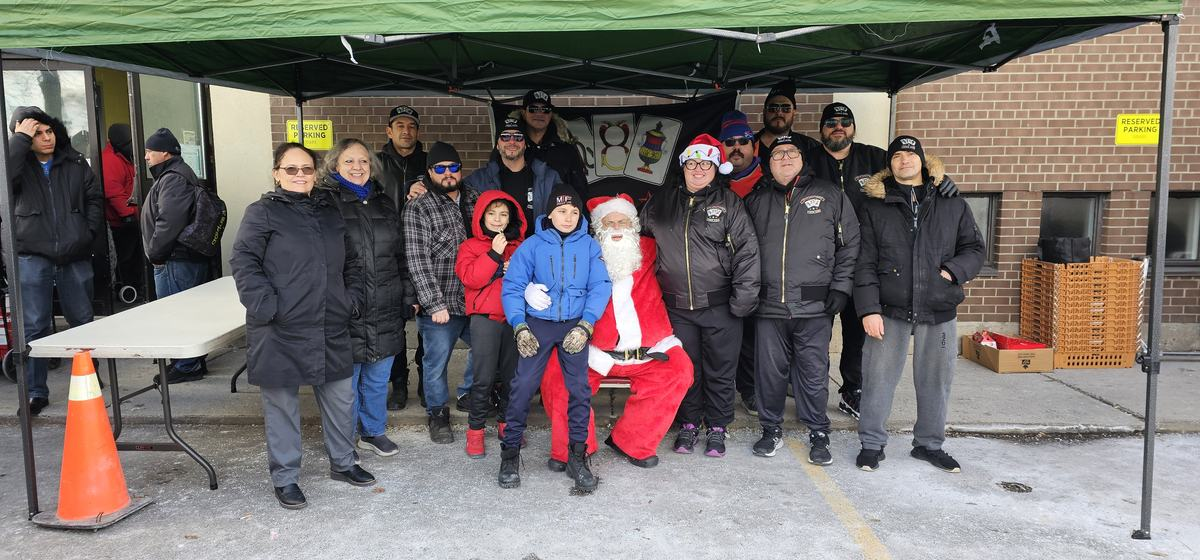
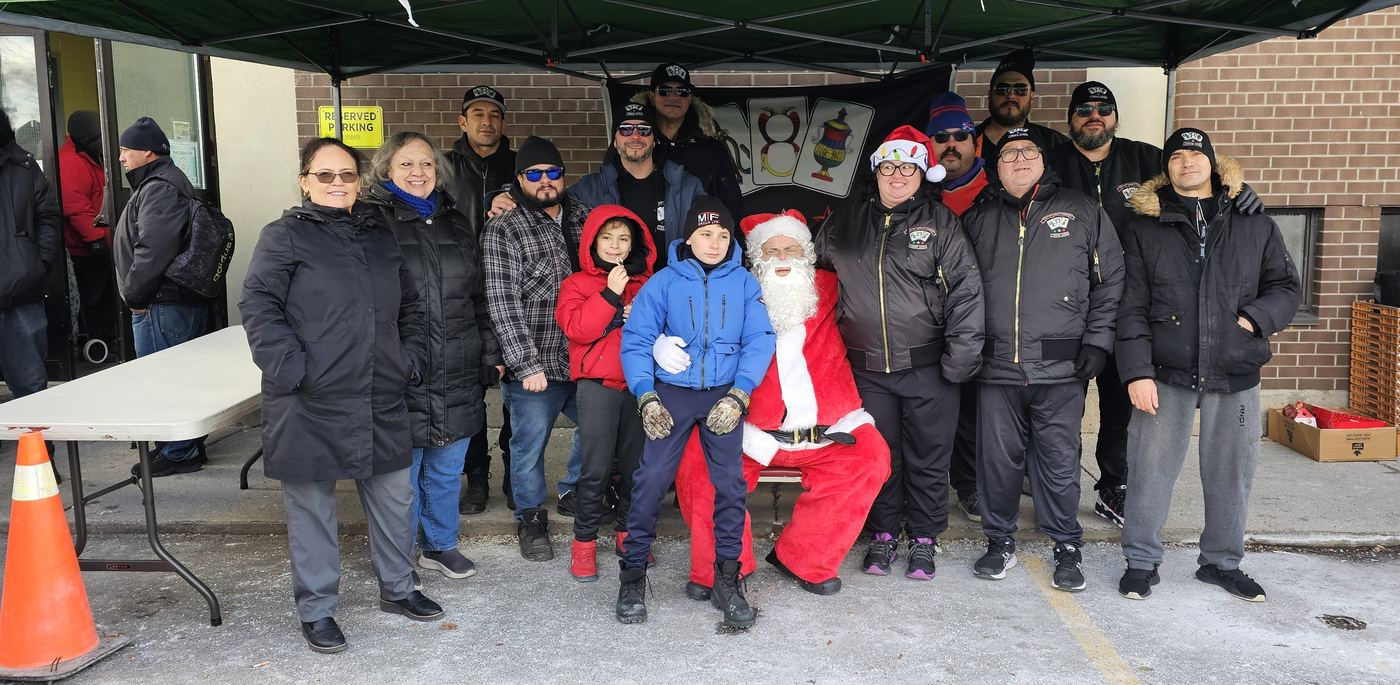
Shipping by weight, food drive photos fixed, picnic sponsor buttons, copy fixes

diff --git a/index.html b/index.html
@@ -27,7 +27,7 @@
   .wrap{ max-width:1240px; margin:0 auto; padding-inline:24px; }
   .display{ font-family:var(--display); font-weight:400; letter-spacing:.02em; line-height:.95; text-wrap:balance; }
   .eyebrow{ display:inline-flex; align-items:center; gap:10px; font-size:12px; font-weight:600; letter-spacing:.22em; text-transform:uppercase; color:var(--gold); }
-  .eyebrow::before{ content:""; width:28px; height:1px; background:var(--gold); }
+  .eyebrow::before{ display:none; }
   .muted{ color:var(--muted); }
   .tricolor{ display:flex; height:3px; } .tricolor i{ flex:1; } .tricolor i:nth-child(1){ background:var(--green);} .tricolor i:nth-child(2){ background:#f3efe6;} .tricolor i:nth-child(3){ background:var(--red);}
   .btn{ display:inline-flex; align-items:center; justify-content:center; gap:10px; padding:15px 26px; font-size:13px; font-weight:700; letter-spacing:.18em; text-transform:uppercase; border:1px solid var(--text); background:transparent; color:var(--text); transition:background .25s,color .25s,transform .25s; }
@@ -211,7 +211,7 @@
 
   /* food drive */
   .fd{ position:relative; overflow:hidden; }
-  .fd .bg{ position:absolute; inset:0; background:url(fd_santa.jpg) center/cover no-repeat; opacity:.28; }
+  .fd .bg{ position:absolute; inset:0; background:url(fd_santa.jpg) center 30%/cover no-repeat; opacity:.28; }
   .fd .shade{ position:absolute; inset:0; background:linear-gradient(90deg,#070707 0%,rgba(7,7,7,.92) 45%,rgba(7,7,7,.55) 100%); }
   .fd .inner{ position:relative; display:grid; grid-template-columns:1.1fr .9fr; gap:50px; align-items:center; }
   .fd h2{ font-size:clamp(40px,5.6vw,68px); margin:12px 0 22px; }
@@ -220,9 +220,9 @@
   .bignum div b{ display:block; font-family:var(--display); font-size:64px; color:var(--gold); line-height:1; }
   .bignum div span{ font-size:11px; letter-spacing:.18em; text-transform:uppercase; color:var(--muted); }
   .fd .photos{ display:grid; grid-template-columns:1fr 1fr; gap:10px; }
-  .fd .photos div{ height:220px; overflow:hidden; border:1px solid var(--line); }
-  .fd .photos div:first-child{ grid-column:span 2; height:260px; }
-  .fd .photos img{ width:100%; height:100%; object-fit:cover; object-position:50% 20%; }
+  .fd .photos div{ height:300px; overflow:hidden; border:1px solid var(--line); }
+  .fd .photos div:first-child{ grid-column:span 2; height:300px; }
+  .fd .photos img{ width:100%; height:100%; object-fit:cover; object-position:50% 30%; }
   .steps{ display:flex; flex-direction:column; gap:0; margin-top:26px; border-top:1px solid var(--line); }
   .steps div{ display:grid; grid-template-columns:44px 1fr; gap:14px; padding:14px 0; border-bottom:1px solid var(--line); align-items:baseline; }
   .steps b{ font-family:var(--display); font-size:26px; color:var(--gold); }
@@ -470,6 +470,7 @@
         <div>
           <p>One Sunday every summer at Heart Lake Conservation Area in Brampton. Pasta, pizza, bocce, a raffle, a live performer, and the pool and splash pad for the kids. Everything raised through clothing and the raffle goes straight back into the picnic and the food drive &mdash; 100%. Nine down; the tenth is going to be the big one.</p>
           <div class="datebox"><b>2027</b><span>Summer 2027 &middot; Heart Lake, Birchview #1<br>Date to be announced</span></div>
+          <div style="margin-top:16px;display:flex;gap:12px;flex-wrap:wrap;"><a class="btn btn-gold btn-sm" href="#sponsor">Become a Sponsor</a><a class="btn btn-sm" href="#sponsors" data-view="sponsors">Our Sponsors</a></div>
         </div>
       </div>
       <div class="mosaic" data-reveal>
@@ -482,7 +483,7 @@
         <div><img src="g_plaque.jpg" alt="Presenting a sponsor plaque"></div>
       </div>
       <div class="facts" data-reveal>
-        <div class="fact"><svg viewBox="0 0 24 24"><path d="M4 12h16M6 12a6 6 0 0012 0M8 6l1 3M16 6l-1 3M12 4v5"/></svg><b>THE FOOD</b><span>Pasta by Multi Pasta, pizza by Bolton Pizza Panini, espresso and sweets at 11, lunch at 1.</span></div>
+        <div class="fact"><svg viewBox="0 0 24 24"><path d="M4 12h16M6 12a6 6 0 0012 0M8 6l1 3M16 6l-1 3M12 4v5"/></svg><b>THE FOOD</b><span>Pizza by Bolton Pizza Panini and pasta by Multi Pasta, with espresso and sweets.</span></div>
         <div class="fact"><svg viewBox="0 0 24 24"><circle cx="8" cy="14" r="4"/><circle cx="17" cy="9" r="3"/><path d="M12 20h9"/></svg><b>BOCCE TOURNAMENT</b><span>Sign up on the day. Winners take home the trophies.</span></div>
         <div class="fact"><svg viewBox="0 0 24 24"><path d="M4 8h16v10H4zM4 8l2-4h12l2 4M9 12h6"/></svg><b>RAFFLE &amp; PRIZES</b><span>Tickets sold all afternoon. Every dollar funds next year&rsquo;s picnic and the food drive.</span></div>
         <div class="fact"><svg viewBox="0 0 24 24"><path d="M6 4l6 4 6-4v14l-6 2-6-2z"/></svg><b>THE CLOTHING STATION</b><span>An exclusive picnic-colour tee every year, limited sizes, plus one-day-only deals on the rest.</span></div>
@@ -515,9 +516,9 @@
         </div>
       </div>
       <div class="photos" data-reveal>
-        <div><img src="fd_santa.jpg" alt="Members with Santa at the December hand-out"></div>
-        <div><img src="fd_truck.jpg" alt="Santa arriving"></div>
-        <div><img src="fd_boxes.jpg" alt="Members at the food bank"></div>
+        <div><img src="fd_santa.jpg" alt="The club with Santa at the December hand-out"></div>
+        <div><img src="fd_truck.jpg" alt="Santa with two of the kids"></div>
+        <div><img src="fd_boxes.jpg" alt="Members at the food bank tent"></div>
       </div>
     </div>
   </section>
@@ -682,7 +683,7 @@
       </div>
     </div>
     <div class="tricolor"><i></i><i></i><i></i></div>
-    <div class="ft-bottom"><span>&copy; 2026 Three Aces Italian Canadian Cultural Club</span><span>Annual Picnic &middot; Heart Lake Conservation Area, Brampton, ON</span></div>
+    <div class="ft-bottom"><span>&copy; 2026 Three Aces Italian Canadian Cultural Club</span><span>Toronto, Ontario</span></div>
   </div>
 </footer>
 
@@ -693,7 +694,10 @@
   'use strict';
   /* ===================== CONFIG ===================== */
   var GOFUNDME_URL = '';   // paste the 2026 GoFundMe link here when it goes live
-  var SHIP = { CA:12, US:22, INTL:38 };
+  /* Shipping by weight. Base covers the first 0.5 kg; each extra 0.5 kg adds the step.
+     Roughly Canada Post from Toronto. One tee ~0.25 kg, a hoodie ~0.7 kg. */
+  var SHIP = { CA:{base:12,step:4}, US:{base:22,step:7}, INTL:{base:38,step:12} };
+  function shipCost(zone,kg){ var r=SHIP[zone]; var extra=Math.max(0,Math.ceil((kg-0.5)/0.5)); return r.base+extra*r.step; }
 
   /* ===================== INVENTORY =====================
      LIVE_ITEMS is a copy of /threeaces/items from the Club Manager's Firebase
@@ -866,7 +870,7 @@
         '<div class="addrow"><div class="qty"><button id="qm">−</button><span id="qv">'+sel.qty+'</span><button id="qp">+</button></div><button class="btn btn-gold" id="addBtn"'+(st===0?' disabled':'')+'>'+(total===0?'Sold out':'Add to cart')+'</button></div>'+
         '<div class="fs-box"><svg viewBox="0 0 24 24"><path d="M12 2l8 4v6c0 5-3.5 8-8 10-4.5-2-8-5-8-10V6z"/></svg><span><b>Final sale.</b> No returns or exchanges on club merchandise. Check the size chart and the stock line above before you add it.</span></div>'+
         '<div class="details">'+chart+
-          '<details><summary>Shipping &amp; pickup</summary><div class="body">Ships from Toronto, ON. Rates are by destination and weight (this item is about '+p.weight+' kg): Canada $'+SHIP.CA+', United States $'+SHIP.US+', international $'+SHIP.INTL+' per order. Free local pickup in Toronto — choose it at checkout.</div></details>'+
+          '<details><summary>Shipping &amp; pickup</summary><div class="body">Ships from Toronto, ON. Rates are by destination and total weight (this item is about '+p.weight+' kg). Up to 0.5 kg: Canada $'+SHIP.CA.base+', United States $'+SHIP.US.base+', international $'+SHIP.INTL.base+'; each extra 0.5 kg adds $'+SHIP.CA.step+' / $'+SHIP.US.step+' / $'+SHIP.INTL.step+'. Free local pickup in Toronto — choose it at checkout.</div></details>'+
           '<details><summary>Where the money goes</summary><div class="body">Every dollar of profit from this item goes to the Three Aces club fund — the Annual Picnic and the Christmas Food Drive. Nobody takes a cut.</div></details>'+
         '</div>'+
       '</div>';
@@ -899,12 +903,12 @@
       return '<div class="line">'+th+'<div><div class="nm">'+esc(p.name).toUpperCase()+'</div><div class="sub">'+esc(c.n)+' · Size '+esc(l.size)+' · '+money(unit)+' each</div><div class="fs">Final sale</div><button class="rm" data-rm="'+i+'">Remove</button></div>'+
              '<div class="qty"><button data-dq="'+i+'">−</button><span>'+l.qty+'</span><button data-iq="'+i+'">+</button></div><div class="amt">'+money(amt)+'</div></div>';
     }).join('');
-    var ship = pickup ? 0 : SHIP[zone];
+    var ship = pickup ? 0 : shipCost(zone,w);
     var zoneName = pickup ? 'Pickup in Toronto' : ({CA:'Canada',US:'United States',INTL:'International'})[zone];
     root.innerHTML =
       '<div><div class="lines">'+lines+'</div>'+
-        '<div class="shipbox"><b>Where are we shipping?</b><div class="muted" style="font-size:13px;margin-top:4px">Order weight about '+w.toFixed(2)+' kg. Rates are per order.</div>'+
-          '<div class="zones"><button class="zone'+(zone==='CA'&&!pickup?' active':'')+'" data-zone="CA">Canada — $'+SHIP.CA+'</button><button class="zone'+(zone==='US'&&!pickup?' active':'')+'" data-zone="US">United States — $'+SHIP.US+'</button><button class="zone'+(zone==='INTL'&&!pickup?' active':'')+'" data-zone="INTL">International — $'+SHIP.INTL+'</button></div>'+
+        '<div class="shipbox"><b>Where are we shipping?</b><div class="muted" style="font-size:13px;margin-top:4px">Order weight about '+w.toFixed(2)+' kg. The first 0.5 kg is the base rate; each extra 0.5 kg adds a step.</div>'+
+          '<div class="zones"><button class="zone'+(zone==='CA'&&!pickup?' active':'')+'" data-zone="CA">Canada — $'+shipCost('CA',w)+'</button><button class="zone'+(zone==='US'&&!pickup?' active':'')+'" data-zone="US">United States — $'+shipCost('US',w)+'</button><button class="zone'+(zone==='INTL'&&!pickup?' active':'')+'" data-zone="INTL">International — $'+shipCost('INTL',w)+'</button></div>'+
           '<label class="chk"><input type="checkbox" id="pickupChk"'+(pickup?' checked':'')+'><span>Pick up in Toronto instead — free, no shipping charge. We’ll message you to arrange it.</span></label>'+
         '</div></div>'+
       '<div class="summary"><h3 class="display">ORDER SUMMARY</h3>'+
